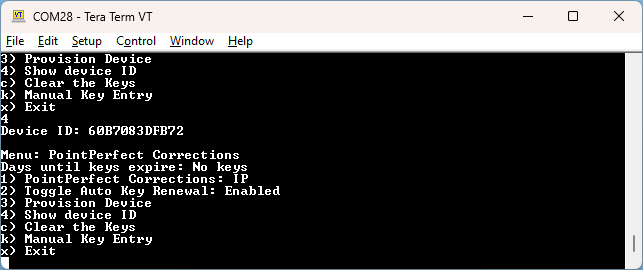
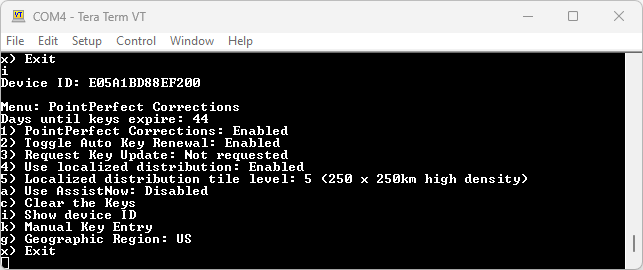
Add localized distribution

Changed region(s): [[0.0, 0.2074, 0.8087, 0.9185], [0.0, 0.0, 1.0, 1.0], [0.0, 0.1185, 0.4044, 0.1778]]

diff --git a/docs/menu_pointperfect.md b/docs/menu_pointperfect.md
@@ -28,9 +28,31 @@ PointPerfect has the following benefits and challenges:
 
 PointPerfect corrections are obtained by two methods:
 
-* **L-Band**: Corrections are transmitted from a geosynchronous satellite. Coverage areas are limited to the US contiguous 48 states and the EU. This delivery method requires special equipment (see the [RTK Facet L-Band](https://www.sparkfun.com/products/20000) for more information). No cellular or internet connection is required.
+* **L-Band**: Corrections are transmitted from a geosynchronous satellite. Coverage areas are limited to the US contiguous 48 states and the EU. This delivery method requires special equipment (see the [RTK EVK](https://www.sparkfun.com/products/24342) for more information). No cellular or internet connection is required.
 
 * **IP**: Corrections are transmitted over the internet. The RTK device will need access to a WiFi or Ethernet network. For WiFi, this is most commonly a hotspot on a cell phone so this delivery method is generally confined to areas with cellular and/or other WiFi coverage.
+
+## Localized Corrections
+
+The u-blox PointPerfect Localized correction service via MQTT (IP) offers quick delivery of high precision accuracy by providing your device only the SPARTN corrections applicable to your location. This feature offers several advantages over the traditional continental streams, including significantly reduced bandwidth requirements and seamless transition between regions.
+
+* **Reduced bandwidth requirements:** PointPerfect Localized can reduce bandwidth requirements by up to 80%. This is a significant advantage for applications sensitive to bandwidth constraints, such as those that operate in remote areas or use low-power devices.
+
+* **Retained Privacy:** PointPerfect Localized retains user privacy by not sending the device's precise location to the service to receive correction data. This is done by using a general node-based location system.
+
+PointPerfect Localized works by dividing the coverage area into a grid of tiles. Each tile contains a set of nodes that are relevant to a user located within that tile. Unlike the continental level approach where a device subscribes to the continental level topic, in the localized approach a device subscribes to the localized node topic based on its location. This ensures that the device receives only the correction data that is relevant to its location, greatly reducing the required bandwidth.
+
+![Comparison of PointPerfect Localized node density](<img/WiFi Config/SparkFun RTK PointPerfect Config.png>)
+
+*Comparison of PointPerfect Localized node density*
+
+The above image shows the Localized tiles for Level 2 (250 x 250km sparse, ~90-100km separation) vs. Level 5 (250 x 250km high density, ~30km separation).
+
+Localized distribution can be enabled via the serial menu (PointPerfect menu - option 'p'), or the web config page. On serial, option '4' will enable or disable localized distribution; option '5' selects the tile level.
+
+![PointPerfect Menu](<img/Terminal/SparkFun RTK Everywhere - PointPerfect Menu.png>)
+
+*Configuring PointPerfect settings over serial*
 
 ## Registration
 
@@ -68,17 +90,23 @@ On devices that have a display, the unit will display various prompts to aid the
 
 The *Days until keys expire* inform the user how many days the unit has until it needs to connect to WiFi to obtain new keys.
 
-* **1** - Disable the use of PointPerfect corrections.
+* **1** - Enable / disable the use of PointPerfect corrections.
 
-* **2** - Disable the automatic attempts at WiFi connections when key expiry is less than 28 days.
+* **2** - Enable / disable the automatic attempts at WiFi connections when key expiry is less than 28 days.
 
-* **3** - Trigger an immediate attempt to connect over WiFi and provision the device (if no keys are available) or update the keys (if provisioning has already been completed).
+* **3** - Trigger an immediate attempt to connect over WiFi / Ethernet and provision the device (if no keys are available) or update the keys (if provisioning has already been completed). Depending on which RTK product you have and which interfaces are connected, it may be necessary to exit the menus for the provisioning / update to take place.
 
-* **4** - Display the Device ID. This is needed when a SparkFun RTK device needs to be added to the PointPerfect system. This is needed when first registering the device, or modifying a subscription. [Go here for RTK Torch](https://www.sparkfun.com/rtk_torch_registration) to enable or renew your subscription. [Go here for RTK EVK](https://www.sparkfun.com/rtk_evk_registration) subscriptions.
+* **4** - Enable / disable [localized distribution](#localized-corrections)
+
+* **5** - When localized distribution is enabled, option 5 can be used to select the tile level. The default is Level 5 - 250 x 250km tiles, high density.
 
 * **c** - Clear the current keys.
 
+* **i** - Display the Device ID. This is needed when a SparkFun RTK device needs to be added to the PointPerfect system. This is needed when first registering the device, or modifying a subscription. [Go here for RTK Torch](https://www.sparkfun.com/rtk_torch_registration) to enable or renew your subscription. [Go here for RTK EVK](https://www.sparkfun.com/rtk_evk_registration) subscriptions.
+
 * **k** - Bring up the Manual Key Entry menu.
+
+* **g** - Set the Geographic Region. The default is US; but EU, Australia, Korea and Japan can also be selected. This is an important setting since it sets both the IP distribution topic (MQTT, IP) and the L-Band frequency (RTK EVK).
 
 ## Obtaining the Device ID
 
@@ -92,7 +120,7 @@ The device ID is unique to each RTK device and must be entered by SparkFun into 
 
 *Device ID within the WiFi Config page*
 
-This ID can be obtained by using option **4** from the *PointPerfect* menu or by opening the PointPerfect section within the [WiFi Config](https://docs.sparkfun.com/SparkFun_RTK_Everywhere_Firmware/configure_with_wifi/) interface in the PointPerfect Configuration section.
+This ID can be obtained by using option **i** from the *PointPerfect* menu or by opening the PointPerfect section within the [WiFi Config](https://docs.sparkfun.com/SparkFun_RTK_Everywhere_Firmware/configure_with_wifi/) interface in the PointPerfect Configuration section.
 
 ## Manual Key Entry
 
@@ -109,6 +137,10 @@ Option '1' will allow a user to enter their Device Profile Token. This is the to
 ![Three-pronged satellite dish indicating L-Band reception](img/Displays/SparkFun_RTK_LBand_Indicator.jpg)
 
 *Three-pronged satellite dish indicating L-Band reception*
+
+![Three-pronged satellite dish indicating L-Band reception on EVK](img/Displays/SparkFun_RTK_EVK_LBand_Indicator.png)
+
+*Three-pronged satellite dish indicating L-Band reception on EVK*
 
 On devices that have a display, upon successful reception and decryption of PointPerfect corrections delivered over L-Band, the satellite dish icon will increase to a three-pronged icon. As the unit's fix increases the cross-hair will indicate a basic 3D solution, a double blinking cross-hair will indicate a floating RTK solution, and a solid double cross-hair will indicate a fixed RTK solution.
 
@@ -132,7 +164,7 @@ This message is seen whenever the PointPerfect service is not aware of the given
 
     This device has been deactivated. Please contact support@sparkfun.com to renew the PointPerfect subscription. Please reference device ID: [device ID]
 
-This message is seen whenever the device's subscription has lapsed. Please use the [subscription form](https://www.sparkfun.com/pointperfect) or contact support@sparkfun.com with your device ID (see [Obtaining the Device ID](menu_pointperfect.md#obtaining-the-device-id) above).
+This message is seen whenever the device's subscription has lapsed. [Go here for RTK Torch](https://www.sparkfun.com/rtk_torch_registration) subscriptions. [Go here for RTK EVK](https://www.sparkfun.com/rtk_evk_registration) subscriptions. Alternatively contact support@sparkfun.com with your device ID (see [Obtaining the Device ID](menu_pointperfect.md#obtaining-the-device-id) above).
 
 ### HTTP response error -11 - Read Timeout
 

diff --git a/docs/quickstart-evk.md b/docs/quickstart-evk.md
@@ -148,7 +148,7 @@ Steps to use PointPerfect:
 
     *WiFi Menu containing one network*
 
-5. Under the *PointPerfect Configuration* menu, **Enable PointPefect Corrections** and select your **Geographic Region**. If desired, enable **Localized Corrections** and **AssistNow**.
+5. Under the [*PointPerfect Configuration* menu](menu_pointperfect.md), **Enable PointPefect Corrections** and select your **Geographic Region**. If desired, enable **Localized Corrections** and **AssistNow**.
 
     ![PointPerfect Configuration Menu](<img/WiFi Config/SparkFun RTK PointPerfect Config.png>)
 
